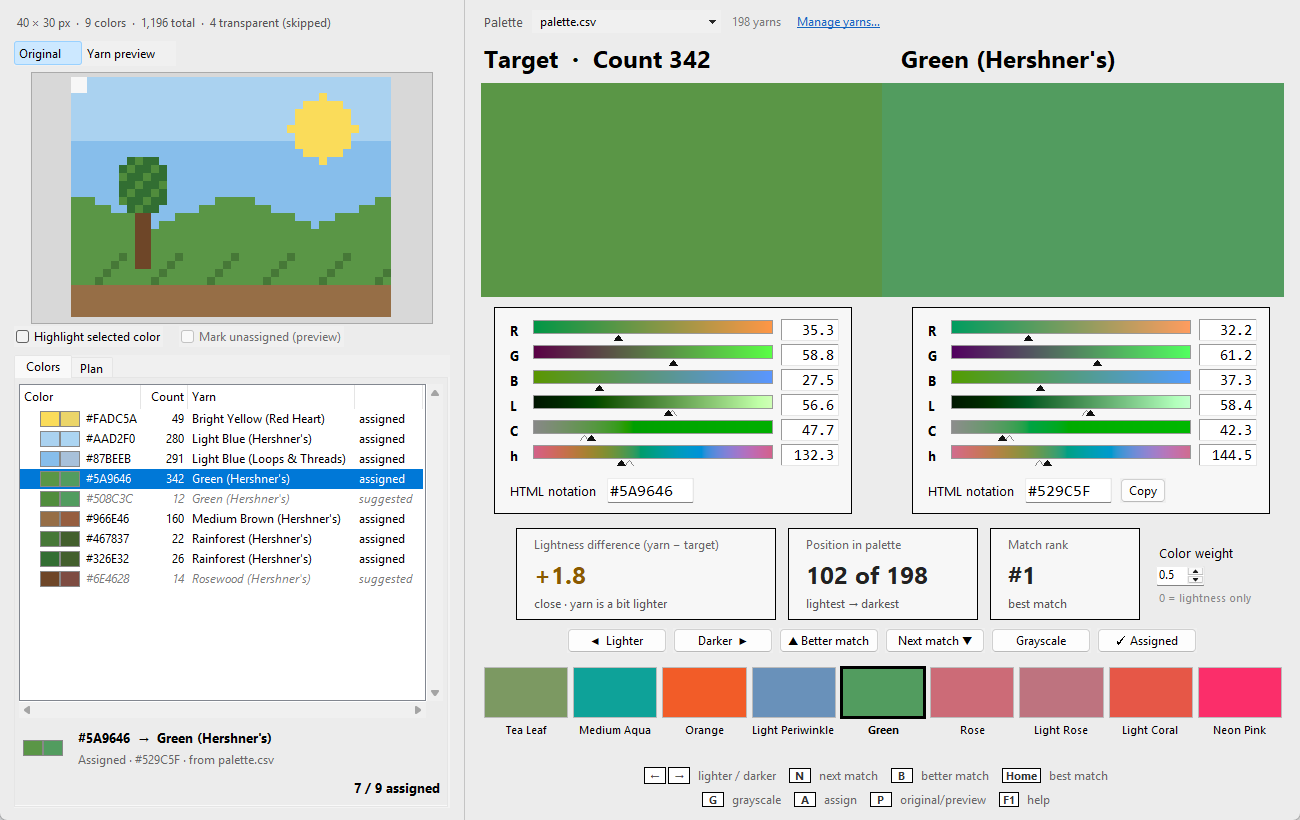
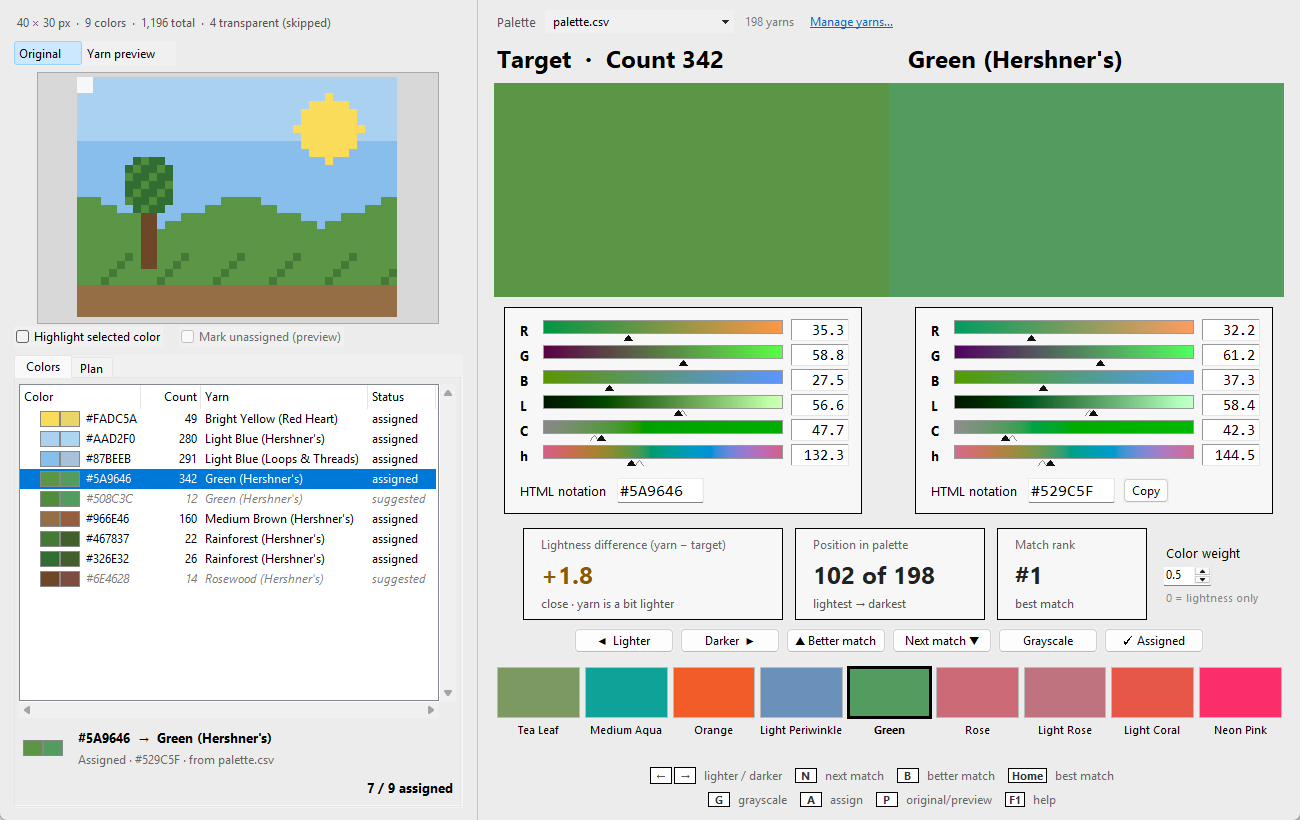
Sortable headings on the Colors and Plan tabs, saved per project
Click a heading to sort, again to reverse, a third time for the default order (Colors:
lightest first; Plan: most knots first). Color sorts by lightness, Status puts suggested
first, Need sorts by pieces incl. spare. The sort is kept in the project's settings and
restored on open; the first color selected is the top row. The Colors status column is now
headed "Status" so it can be clicked.

diff --git a/src/latchwork/project_panel.py b/src/latchwork/project_panel.py
@@ -7,7 +7,7 @@ from tkinter import ttk
 from . import plan as pl
 from .palette import label as yarn_label
 from .colormath import gray_for_lightness, lightness, parse_hex, to_hex
-from .widgets import Tooltip
+from .widgets import Tooltip, TreeSort
 
 BG = "#ECECEC"
 UI_FONT = ("Segoe UI", 10)
@@ -140,13 +140,22 @@ class ProjectPanel(tk.Frame):
         self.tree = ttk.Treeview(body, columns=("count", "yarn", "state"), selectmode="browse",
                                  height=TABLE_ROWS)
         for col, text, width, anchor in (("#0", "Color", 130, "w"), ("count", "Count", 55, "e"),
-                                         ("yarn", "Yarn", 145, "w"), ("state", "", 70, "w")):
+                                         ("yarn", "Yarn", 145, "w"), ("state", "Status", 70, "w")):
             self.tree.heading(col, text=text, anchor=anchor if col != "#0" else "w")
             self.tree.column(col, width=width, minwidth=40, anchor=anchor, stretch=False)
         self.tree.tag_configure("suggested", foreground="#7A7A7A", font=self._italic)
         _scrolled(body, self.tree)
         self.tree.bind("<Configure>", lambda e: self.size_columns())
         self.tree.bind("<<TreeviewSelect>>", lambda e: self.on_select())
+        # Clickable headings. Color sorts by lightness (L*); the default order is lightest first,
+        # so the first click shows darkest first. Status: suggested, carried over, assigned.
+        entry = lambda iid: self.project.entry(iid)
+        self.color_sort = TreeSort(self.tree, {
+            "#0": (lambda i: entry(i).L, False),
+            "count": (lambda i: entry(i).count, True),
+            "yarn": (lambda i: self.tree.set(i, "yarn").lower(), False),
+            "state": (lambda i: (entry(i).confirmed, not entry(i).carried), False),
+        }, default=lambda i: self._color_order[i], on_change=lambda st: self._sort_changed("colors", st))
 
     def _build_plan_tab(self):
         tab = tk.Frame(self.tabs, bg=BG, padx=4, pady=6)
@@ -204,6 +213,13 @@ class ProjectPanel(tk.Frame):
             self.plan_tree.column(col, width=width, minwidth=40, anchor=anchor,
                                   stretch=(col == "#0"))
         self.plan_tree.tag_configure("merged", background="#FFF4CC")
+        line = lambda iid: self._plan.lines[int(iid)]
+        self.plan_sort = TreeSort(self.plan_tree, {
+            "#0": (lambda i: line(i).label.lower(), False),
+            "count": (lambda i: line(i).count, True),
+            "need": (lambda i: line(i).need(self._plan.spare)[0], True),   # pieces incl. spare
+            "colors": (lambda i: len(line(i).colors), True),
+        }, default=int, on_change=lambda st: self._sort_changed("plan", st))
         _scrolled(body, self.plan_tree)
         self._plan = None
         Tooltip(self.plan_tree, self._merged_row_tip)
@@ -233,9 +249,31 @@ class ProjectPanel(tk.Frame):
             sub += "  ·  %s transparent (skipped)" % format(project.transparent, ",")
         self.subtitle.config(text=sub)
         self.spare_var.set("%g" % float(project.settings.get("spare_percent", 0) or 0))
+        sort = project.settings.get("sort") or {}
+        self._color_order = {c.hex: i for i, c in enumerate(project.colors)}
+        self.color_sort.state = None
+        self.plan_sort.state = None
         self.refresh_rows()
         self.refresh_plan()
+        self.color_sort.set(sort.get("colors"))
+        self.plan_sort.set(sort.get("plan"))
+        self.size_columns()
         self.on_view()
+
+    def _sort_changed(self, table, state):
+        """A heading was clicked: keep the order with the project (saved like the spare %)."""
+        if not self.project:
+            return
+        sort = dict(self.project.settings.get("sort") or {})
+        if state:
+            sort[table] = state
+        else:
+            sort.pop(table, None)
+        if sort:
+            self.project.settings["sort"] = sort
+        else:
+            self.project.settings.pop("sort", None)
+        self.app.save_project()
 
     def refresh_rows(self):
         keep = self.selected_hex()
@@ -244,6 +282,7 @@ class ProjectPanel(tk.Frame):
         for c in self.project.colors:
             self.tree.insert("", "end", iid=c.hex)
             self.update_row(c.hex, plan=False)
+        self.color_sort.apply()
         self.size_columns()
         if keep and self.tree.exists(keep):
             self.tree.selection_set(keep)
@@ -365,6 +404,7 @@ class ProjectPanel(tk.Frame):
                                   values=(format(l.count, ","), l.need(plan.spare)[2],
                                           len(l.colors)),
                                   tags=("merged",) if l.merged else ())
+        self.plan_sort.apply()
         _fit_columns(self.plan_tree, {"#0": (42, None), "count": (14, None),
                                       "need": (14, None), "colors": (14, None)})
         parts = ["%s assigned" % format(plan.assigned_count, ",")]
@@ -626,5 +666,5 @@ def _fit_columns(tree, spec):
         f = font or base
         texts = [tree.item(i, "text") if col == "#0" else str(tree.set(i, col)) for i in items]
         widest = max([f.measure(t) + pad for t in texts] +
-                     [head.measure(tree.heading(col, "text")) + 14])
+                     [head.measure(tree.heading(col, "text").rstrip(" \u25b2\u25bc") + " \u25bc") + 14])
         tree.column(col, width=widest, minwidth=widest)

diff --git a/src/latchwork/widgets.py b/src/latchwork/widgets.py
@@ -218,3 +218,56 @@ class ColorPanel(tk.Frame):
         top = BAR_H + 1
         bar.create_polygon(x, top, x - 5, top + MARK_H - 1, x + 5, top + MARK_H - 1,
                            fill=fill, outline=outline)
+
+
+class TreeSort:
+    """Sortable column headings for a flat Treeview.
+
+    Click a heading to sort by it, click again to flip the direction, a third time to go back to
+    the default order. The heading of the sorted column shows ▲ (ascending) or ▼
+    (descending).
+
+    keys:    {column: (key(iid) -> value, first click descending?)}
+    default: key(iid) -> value giving the default order (ties in a sort keep this order).
+    on_change(state): called after a click; state is [column, descending] or None (default).
+    Call apply() after refilling the tree, since rows are inserted in the default order."""
+
+    ARROW = {False: " \u25b2", True: " \u25bc"}
+
+    def __init__(self, tree, keys, default, on_change=None):
+        self.tree, self.keys, self.default, self.on_change = tree, keys, default, on_change
+        self.state = None
+        self.titles = {c: tree.heading(c, "text") for c in keys}
+        for c in keys:
+            tree.heading(c, command=lambda c=c: self.click(c))
+
+    def set(self, state):
+        """Restore a saved state ([column, descending] or None); unknown columns are ignored."""
+        ok = isinstance(state, (list, tuple)) and len(state) == 2 and state[0] in self.keys
+        self.state = [state[0], bool(state[1])] if ok else None
+        self.apply()
+
+    def click(self, col):
+        first = self.keys[col][1]
+        if not self.state or self.state[0] != col:
+            self.state = [col, first]
+        elif self.state[1] == first:
+            self.state = [col, not first]
+        else:
+            self.state = None
+        self.apply()
+        if self.on_change:
+            self.on_change(self.state)
+
+    def apply(self):
+        for c, title in self.titles.items():
+            on = self.state and self.state[0] == c
+            self.tree.heading(c, text=title + (self.ARROW[self.state[1]] if on else ""))
+        rows = sorted(self.tree.get_children(), key=self.default)
+        if self.state:
+            rows.sort(key=self.keys[self.state[0]][0], reverse=self.state[1])   # stable
+        for i, iid in enumerate(rows):
+            self.tree.move(iid, "", i)
+        sel = self.tree.selection()
+        if sel:
+            self.tree.see(sel[0])

diff --git a/src/latchwork/help.py b/src/latchwork/help.py
@@ -15,9 +15,10 @@ Latchwork takes a pixel-art image to a finished latch-hook pattern:
 
 - File → New project from image (PNG or GIF). The image is stored inside the .latchwork file, so moving or deleting the PNG never breaks a project.
 - Carry over: a new project can start from earlier rugs' assignments (the open project is offered first). Colors with exactly the same hex get the same yarn, marked "carried over"; every other color is matched as usual. Also under File → Carry over assignments, which only fills colors not assigned yet.
-- Colors tab: every image color with its knot count. Click a row (or a pixel in the image) to make it the target.
+- Colors tab: every image color with its knot count, lightest first. Click a row (or a pixel in the image) to make it the target.
 - The main view shows the target next to a yarn. Step through yarns, then press Assign (A).
-- Plan tab: packs or pieces per yarn, finished size and canvas to cut.
+- Plan tab: packs or pieces per yarn (most knots first), finished size and canvas to cut.
+- Click a column heading to sort by it, again to reverse, a third time for the default order. Color sorts by lightness; Status puts suggested colors first. Each project remembers its sort.
 - File → Export pattern (Ctrl+E): a single HTML file for your phone or printer.
 
 Projects save automatically on every change.

diff --git a/src/latchwork/app.py b/src/latchwork/app.py
@@ -684,7 +684,7 @@ class App:
         self.update_title()
         if self.remember:
             remember_setting("project", os.path.abspath(project.path))
-        first = project.colors[0].hex
+        first = self.sidebar.tree.get_children()[0]   # top row, in the project's saved sort
         self.sidebar.select(first)
         self.select_project_color(first)
 

diff --git a/docs/DESIGN.md b/docs/DESIGN.md
@@ -133,7 +133,8 @@ A `.latchwork` file is readable JSON:
      "yarn": {"name": "Light Blue", "brand": "Hershner's", "pack": 320,
               "hex": "#ACD5F2", "palette": "palette.csv"}}
   ],
-  "settings": {"spare_percent": 0, "holes_per_inch": 3.75}
+  "settings": {"spare_percent": 0, "holes_per_inch": 3.75,
+               "sort": {"colors": ["count", true]}}
 }
 ```
 
@@ -144,6 +145,15 @@ A `.latchwork` file is readable JSON:
 - The yarn entry is a **snapshot** (name, brand, pack size, hex, source palette). Plans look
   the yarn up in the active palette first, so pack size changes apply, and fall back to the
   snapshot when the yarn is gone.
+- **Table order** (Colors and Plan tabs): colors are stored lightest first (by the image
+  color's L\*), which is the Colors tab's default order; the Plan tab defaults to most knots
+  first, then yarn name. Clicking a heading sorts by it (▲/▼), again flips it, a third time
+  returns to the default. Color sorts by L\* (first click darkest first, since the default is
+  lightest first); Status orders suggested, carried over, assigned; Need sorts by pieces
+  including the spare, so packs and pieces compare. Number columns start largest first, text
+  A–Z. The sort is saved per project in `settings.sort` as `[column, descending]` (absent =
+  default). A row that changes (e.g. on Assign) stays where it is until the table is next
+  refilled, so the selection doesn't jump away.
 - **Carry over** (offered when creating a project, and under File): every color not assigned
   yet whose hex exactly matches an assigned color in the chosen earlier projects gets that
   yarn's snapshot as an assignment, with `carried_from` naming the source project (shown as
